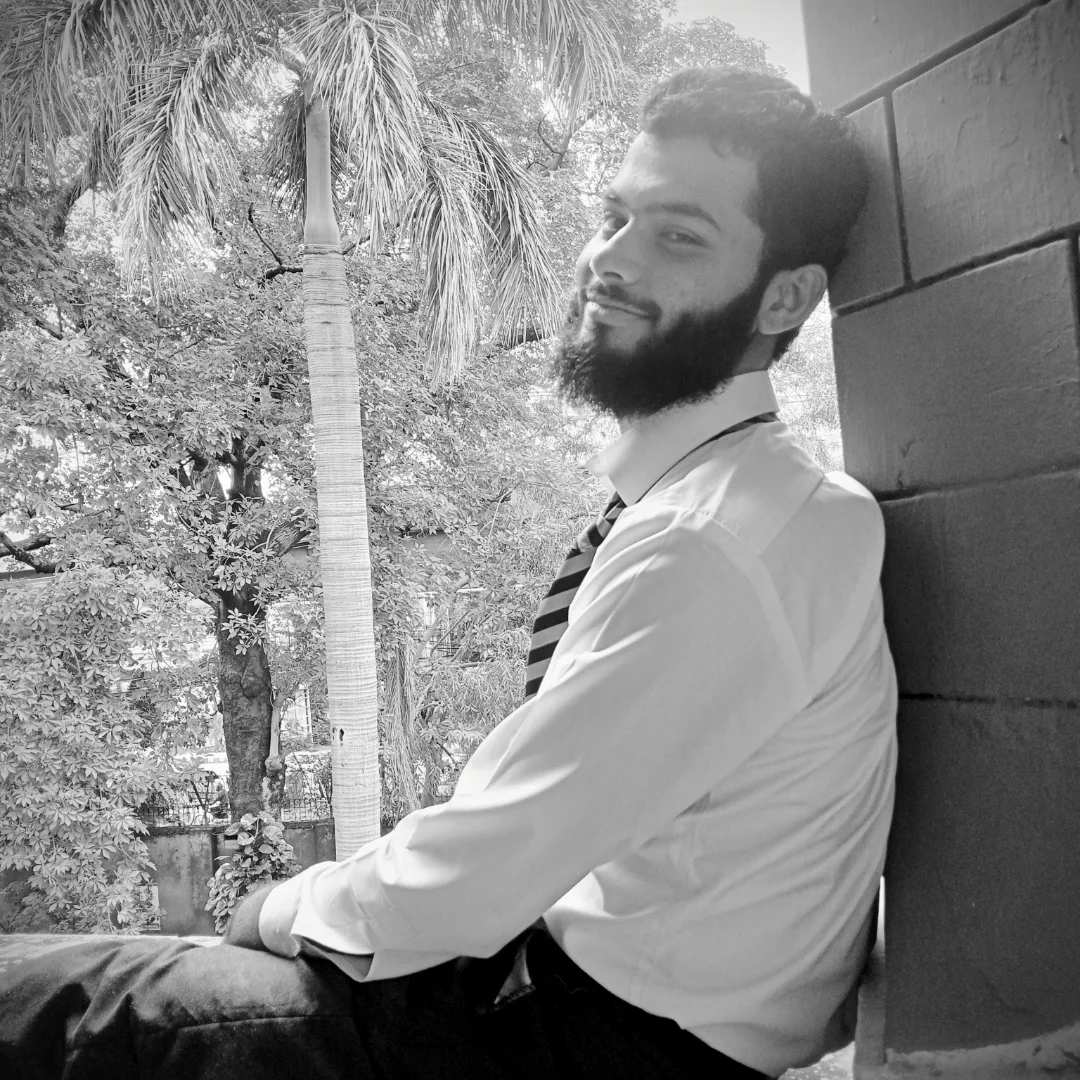
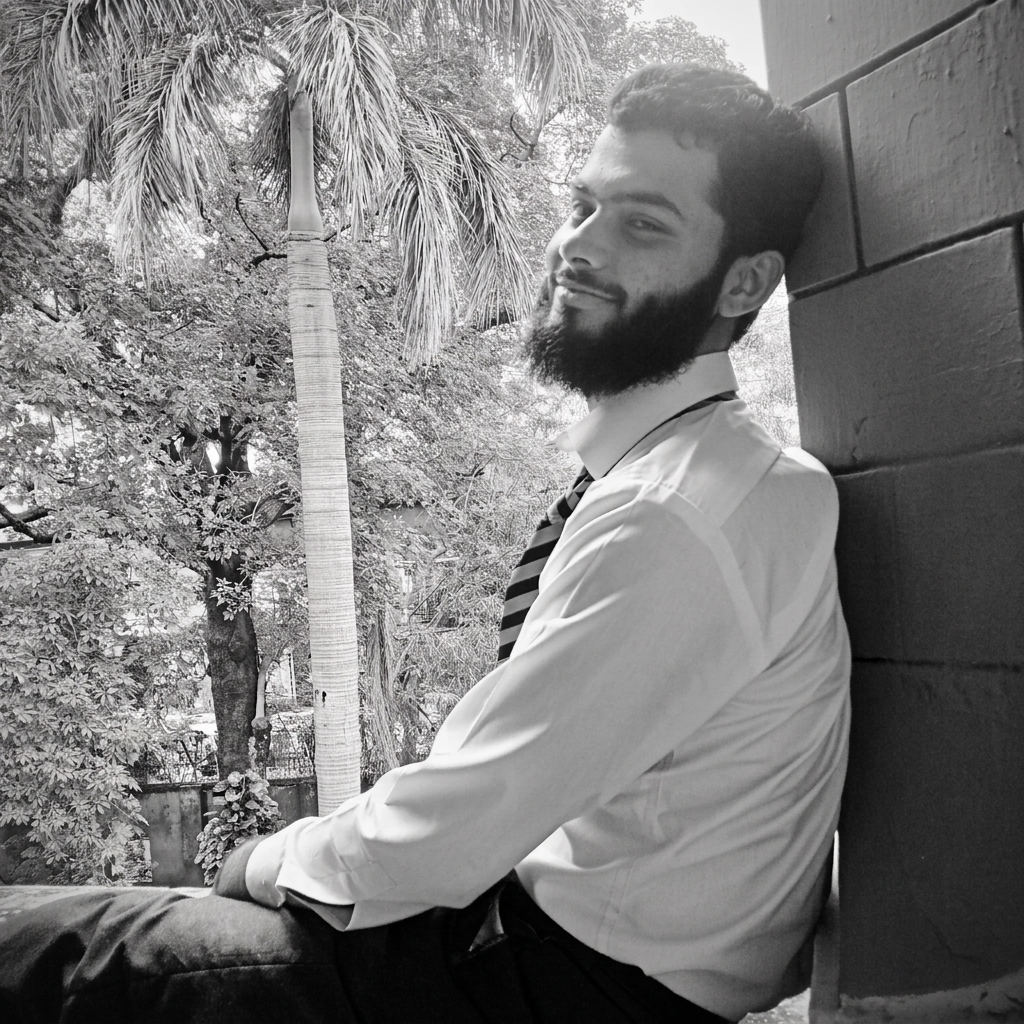
add  images

diff --git a/about.html b/about.html
@@ -8,7 +8,7 @@
         content="Learn about Zzzzjutt Zone, founded by Zubair Ali, combining creative design with human rights and environmental awareness.">
     <meta name="theme-color" content="#F7F5F0">
     <title>About | Zzzzjutt Zone</title>
-    <link rel="stylesheet" href="./style.css">
+    <link rel="stylesheet" href="style.css">
     <link rel="shortcut icon" href="Assets/Branding and designs/logo.png" type="image/x-icon">
 </head>
 
